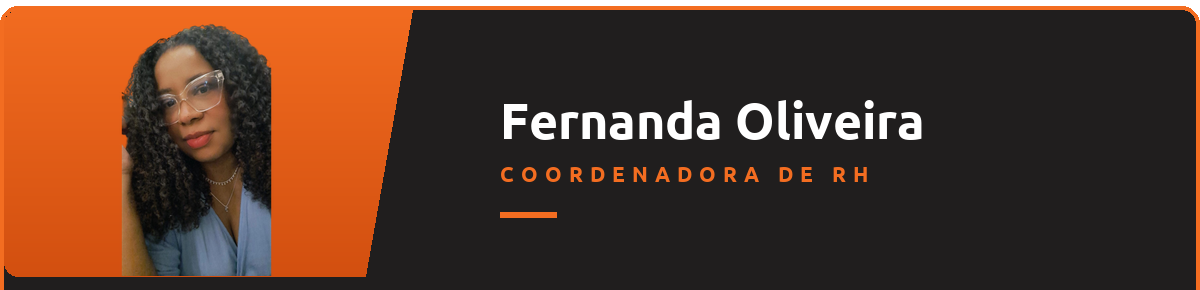
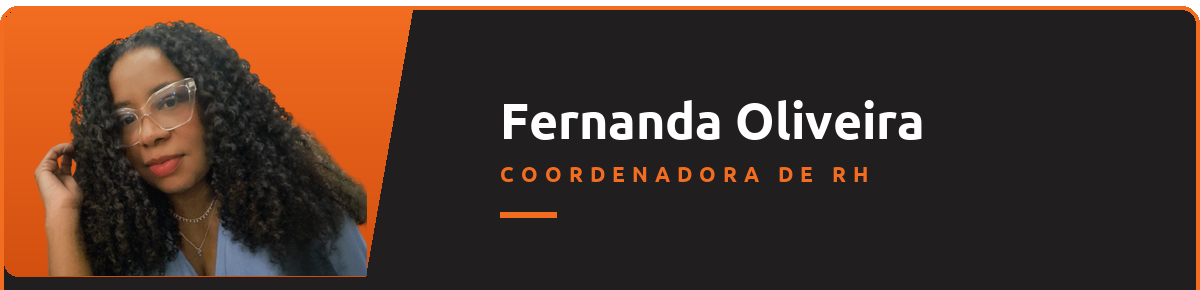
Fernanda: foto nova, com o cabelo inteiro no quadro
A 1a selfie era fechada e deixava cortes retos no cabelo em qualquer
enquadramento. A nova (mesma selfie com o quadro ampliado) cabe como os
outros cards: cabeca e ombros, cabelo com contorno natural.

Changed region(s): [[0.0308, 0.0621, 0.3083, 0.9621]]

diff --git a/ferramentas/pessoas.py b/ferramentas/pessoas.py
@@ -167,16 +167,14 @@ PESSOAS = {
         "endereco": ENDERECO_SEDE,
         "maps": MAPS_SEDE,
         "foto": "fernanda-oliveira-limpo.png",
-        # selfie de 18/11/2026 (original 899x1599, com fundo). O u2net não
-        # reconhece o cabelo cacheado como pessoa; recorte com o modelo
-        # birefnet-portrait do rembg, armação transparente dos óculos tornada
-        # opaca e cor dos cachos re-estimada sem o bege do teto (pymatting).
-        # Reduzido a 674x1199. A selfie é fechada e o cabelo sai do quadro dos
-        # dois lados: qualquer crop que mostre o queixo deixa cortes retos no
-        # cabelo. A pedido do Paulo, o crop pega a foto INTEIRA (altura cheia),
-        # reduzida para caber no painel e centrada, com laranja dos lados.
+        # 2ª foto (18/11/2026 16:31, 760x666): a mesma selfie com o quadro
+        # ampliado - as laterais (fim do cabelo, mão, ombro) parecem geradas
+        # por IA. A 1ª, fechada, deixava cortes retos no cabelo em qualquer
+        # crop. Recorte com o birefnet-portrait do rembg (o u2net não vê o
+        # cabelo cacheado como pessoa), armação dos óculos tornada opaca e
+        # cor dos cachos re-estimada sem o fundo (pymatting), sem redução.
         # Primeira assinatura direto em v2/ (nunca teve v1/).
-        "crop": (-432, 0, 1106, 1199),
+        "crop": (-10, 15, 670, 545),
         "espelhar": False,
     },
 }
